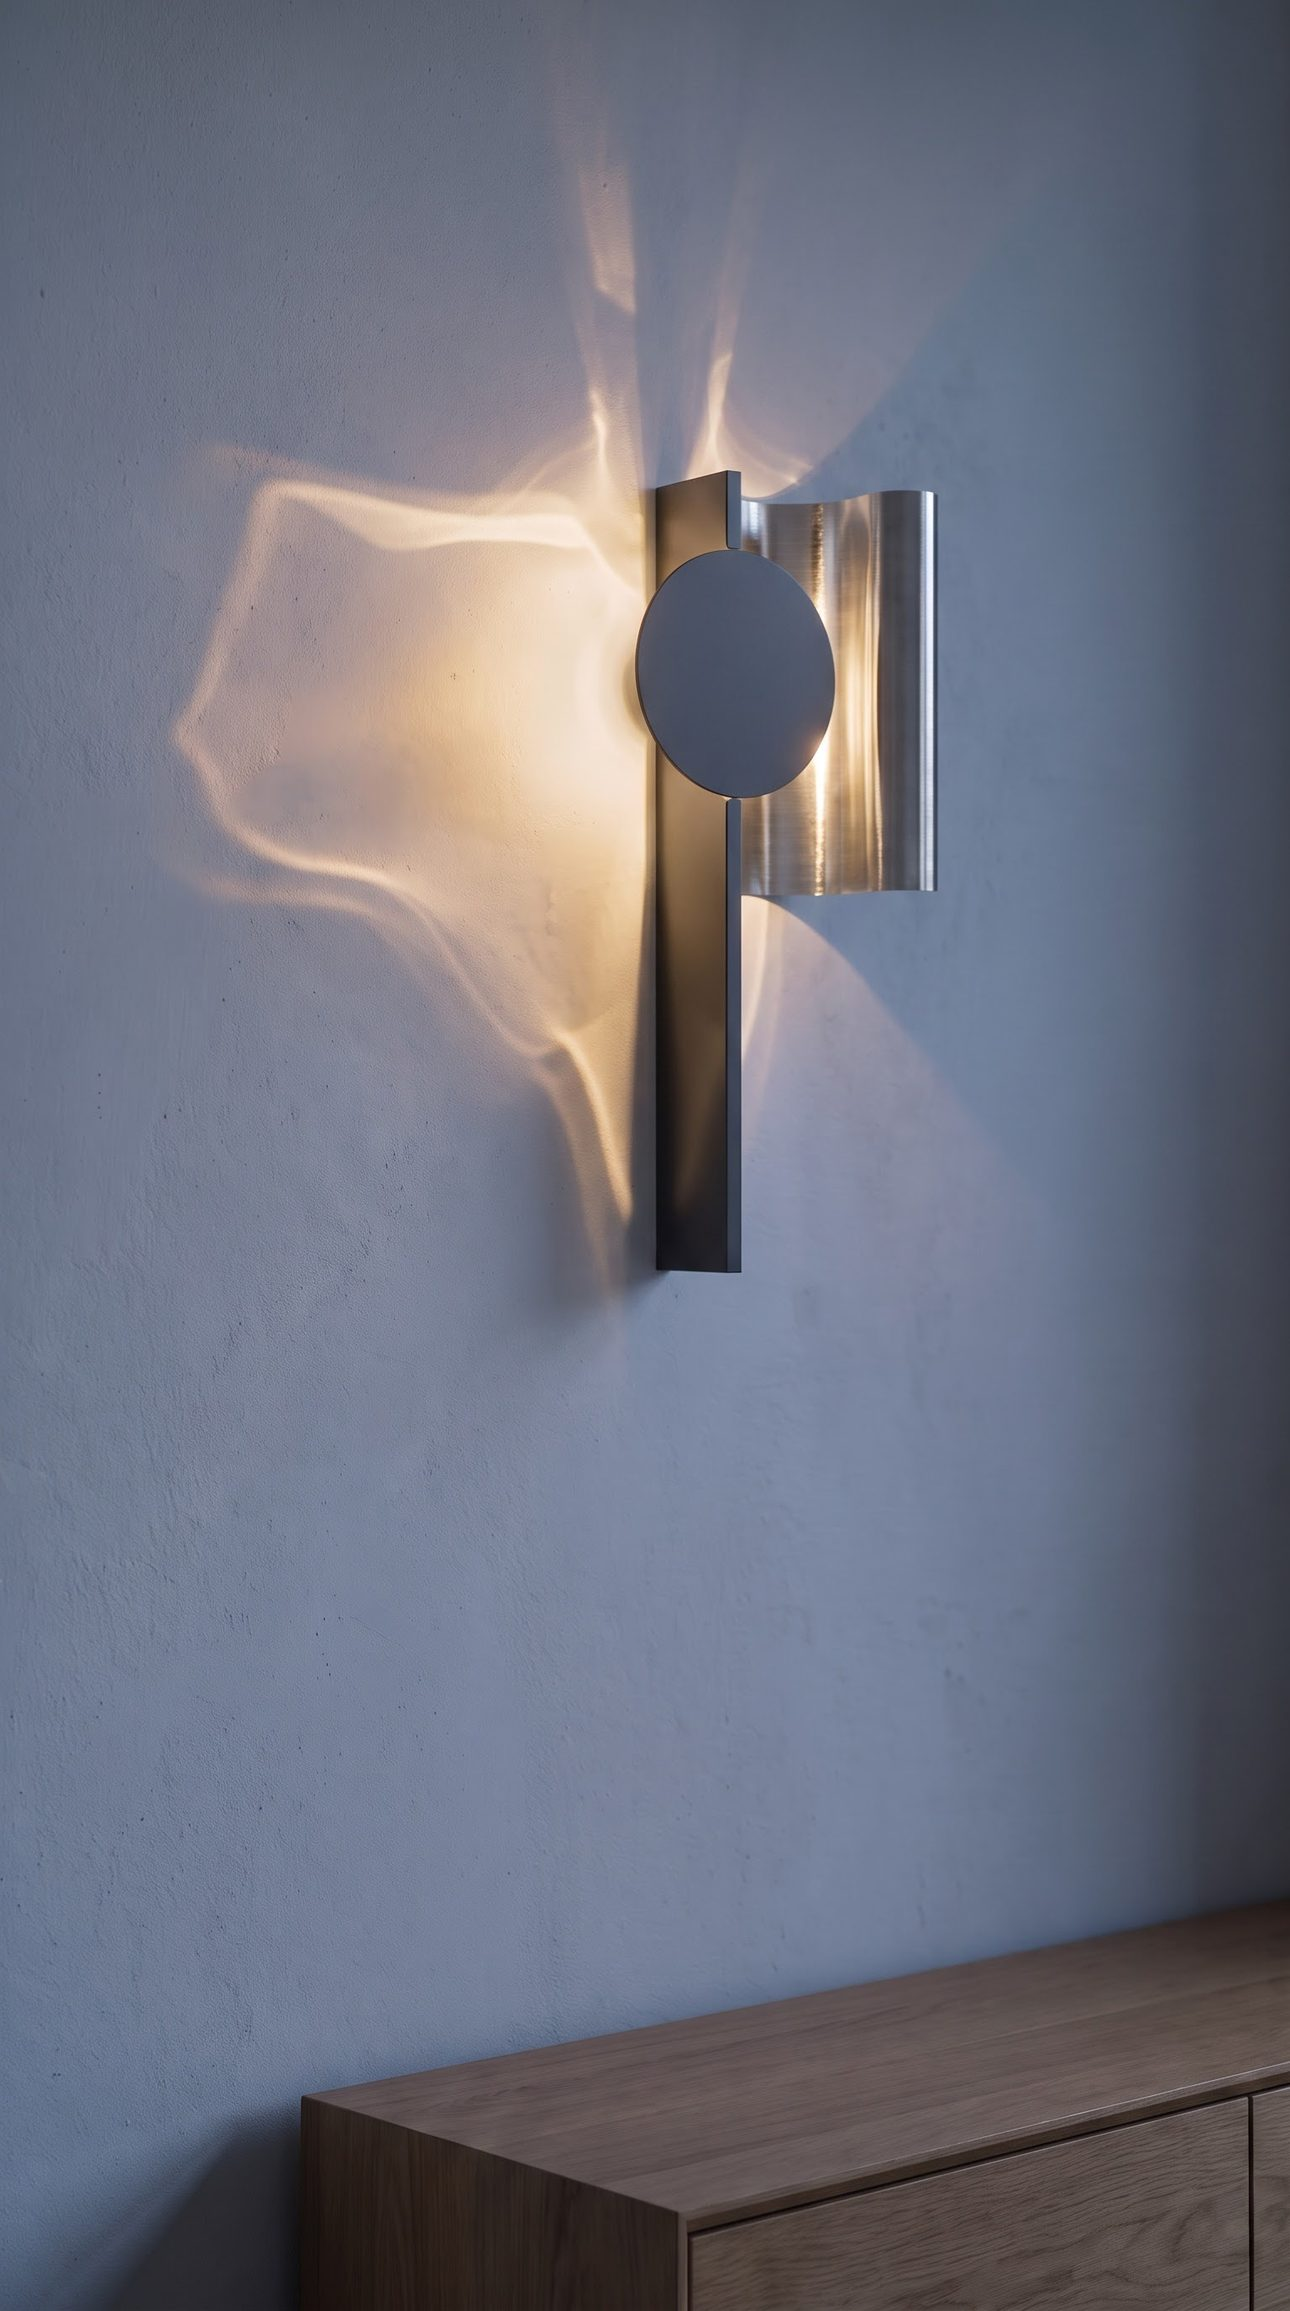
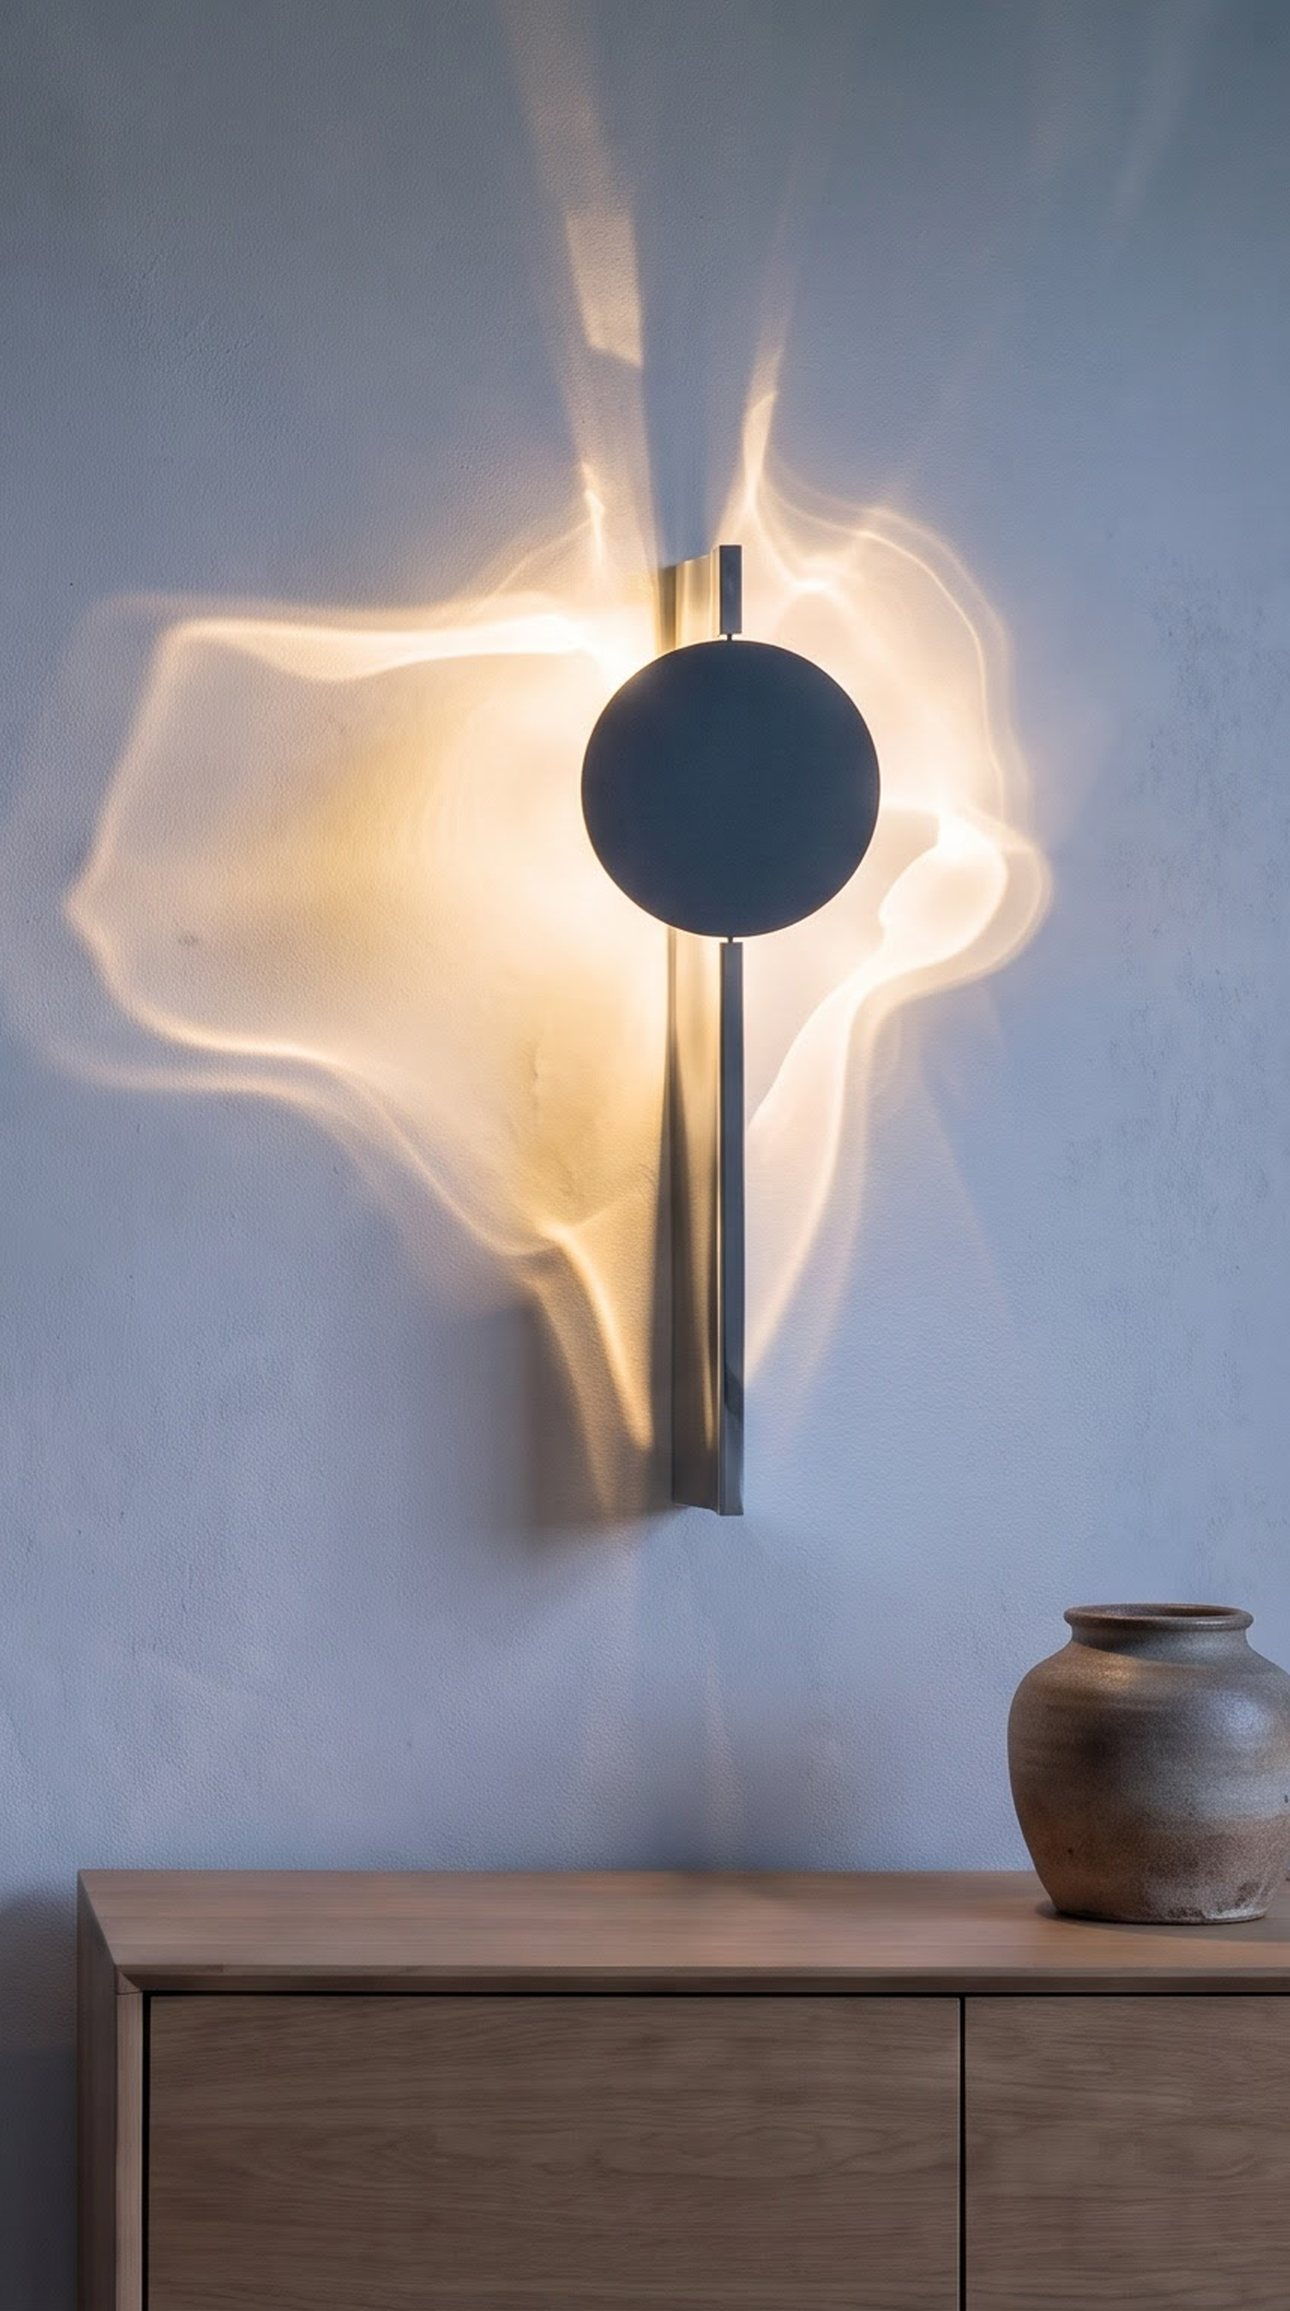
Lichtval: mobiele hero uit het brede beeld gesneden
De bewerkte mobiele hero toonde de staalplaat als losse plaat naast de lamp.
Nu een 9:16-uitsnede van de brede hero, met dezelfde (juiste) lamp.

Claude-Session: https://claude.ai/code/session_019EKctzivrXhyaTJaTQ3Z4k

diff --git a/docs/beslissingen/lichtval.md b/docs/beslissingen/lichtval.md
@@ -85,7 +85,7 @@ de CJ-lamp. Vervangen door nieuwe AI-beelden op basis van de CJ-productfoto's:
 | Ruimte "Boven de bank" (`woonkamer.jpg`) | woonkamer-b, 4:5 uitgesneden |
 | Ruimte "Naast het bed" (`slaapkamer.jpg`): set van twee | duo-a |
 | Ruimte "In de hal" (`hal.jpg`) | story-a, 4:5 uitgesneden |
-| Hero breed + mobiel (`hero-breed.jpg`, `hero-mobiel.jpg`) | oude hero bewerkt: lamp vervangen, compositie gelijk (lichtpunt 77/33 en 57/33) |
+| Hero breed + mobiel (`hero-breed.jpg`, `hero-mobiel.jpg`) | breed: oude hero bewerkt, lamp vervangen (lichtpunt 77/33); mobiel: uitsnede 9:16 uit het brede beeld (lichtpunt 57/33). Eerste mobiele versie afgekeurd: staalplaat stond los naast de lamp |
 | Advertenties (`marketing/lichtval/`) | feed-b (4:5), story-a (9:16) |
 
 Afgekeurd: feed-a (dubbele band bovenin), duo-b (zichtbaar snoer, aansluiting nog onbekend).
